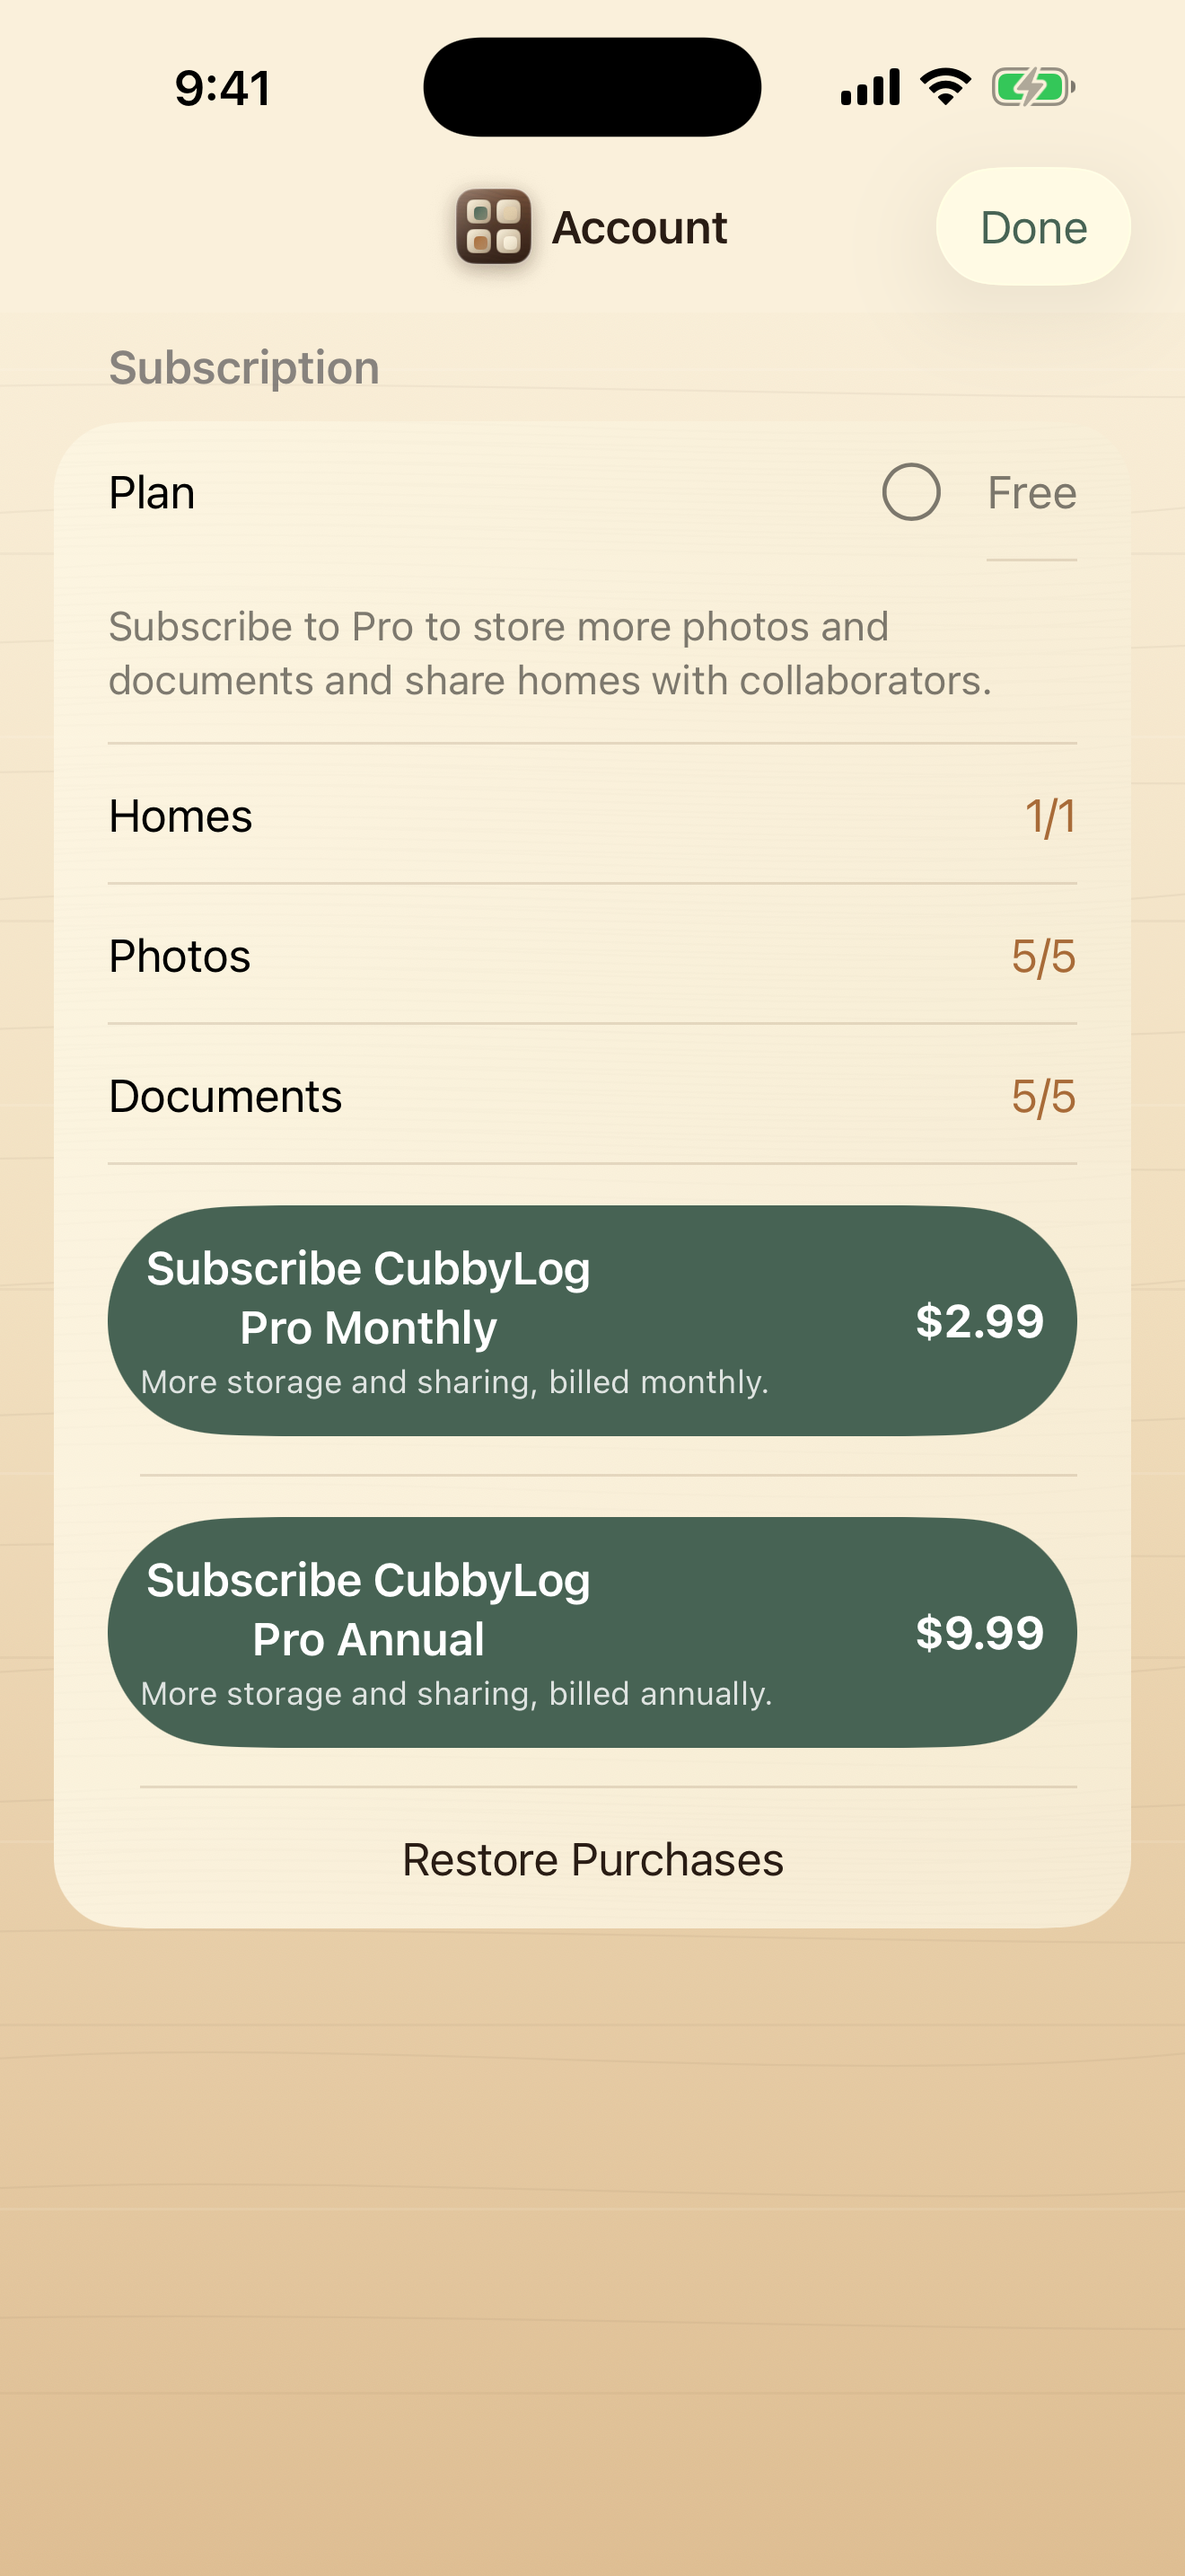
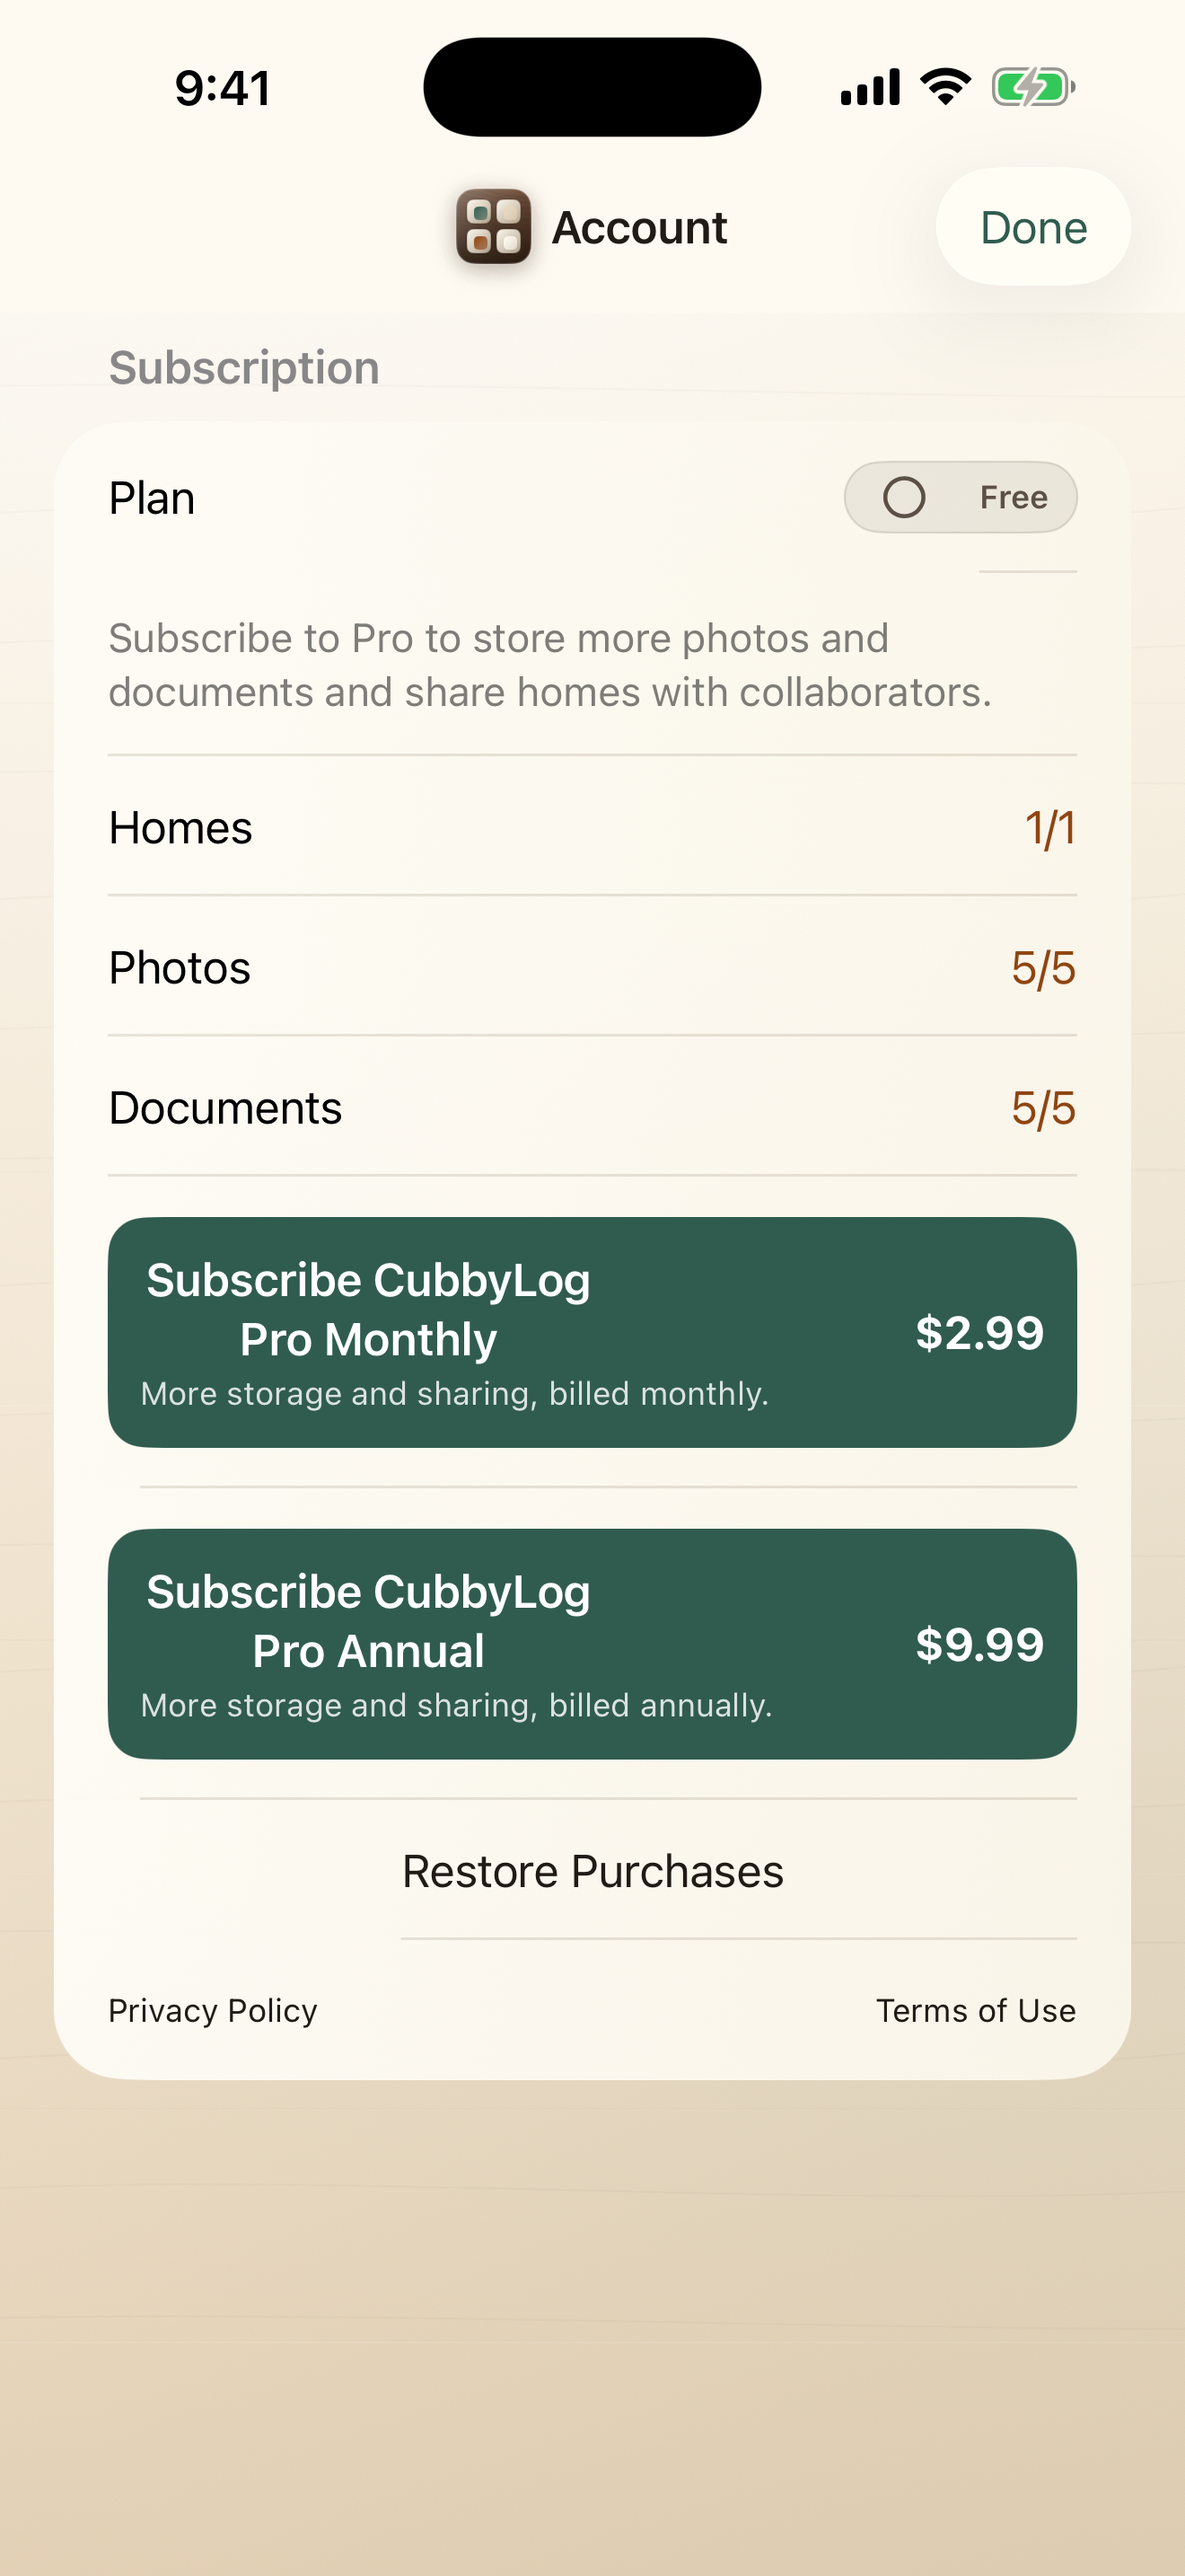
Add subscription legal links

diff --git a/ios/StuffTracker/Views/Auth/AccountView.swift b/ios/StuffTracker/Views/Auth/AccountView.swift
@@ -3,6 +3,11 @@ import AuthenticationServices
 import GoogleSignIn
 import StoreKit
 
+private enum SubscriptionLegalLinks {
+    static let privacyPolicy = URL(string: "https://cubbylog.com/privacy.html")!
+    static let termsOfUse = URL(string: "https://www.apple.com/legal/internet-services/itunes/dev/stdeula/")!
+}
+
 #if DEBUG
 struct SubscriptionReviewScreenshotView: View {
     private let plans = [
@@ -66,6 +71,8 @@ struct SubscriptionReviewScreenshotView: View {
                             Spacer()
                         }
                     }
+
+                    subscriptionLegalLinks
                 }
                 .cubbySheetRows()
             }
@@ -81,6 +88,15 @@ struct SubscriptionReviewScreenshotView: View {
                 }
             }
         }
+    }
+
+    private var subscriptionLegalLinks: some View {
+        HStack {
+            Link("Privacy Policy", destination: SubscriptionLegalLinks.privacyPolicy)
+            Spacer()
+            Link("Terms of Use", destination: SubscriptionLegalLinks.termsOfUse)
+        }
+        .font(.caption)
     }
 
     private func quotaRow(title: String, used: Int, limit: Int) -> some View {
@@ -440,8 +456,19 @@ struct AccountView: View {
                         .foregroundStyle(.secondary)
                 }
             }
+
+            subscriptionLegalLinks
         }
         .cubbySheetRows()
+    }
+
+    private var subscriptionLegalLinks: some View {
+        HStack {
+            Link("Privacy Policy", destination: SubscriptionLegalLinks.privacyPolicy)
+            Spacer()
+            Link("Terms of Use", destination: SubscriptionLegalLinks.termsOfUse)
+        }
+        .font(.caption)
     }
 
     private func subscriptionProductButton(_ product: Product) -> some View {

diff --git a/backend/test/workflows.test.ts b/backend/test/workflows.test.ts
@@ -65,6 +65,7 @@ test('App Store screenshots workflow uploads to App Store Connect by default', (
 test('App Store metadata workflow uploads editable metadata through fastlane', () => {
   const workflow = readRepoFile('.github/workflows/app-store-metadata.yml');
   const fastfile = readRepoFile('fastlane/Fastfile');
+  const description = readRepoFile('fastlane/metadata/en-US/description.txt');
 
   assert.match(workflow, /bundle exec fastlane ios upload_metadata/);
   assert.match(workflow, /APP_STORE_CONNECT_KEY_ID/);
@@ -78,6 +79,10 @@ test('App Store metadata workflow uploads editable metadata through fastlane', (
   assert.match(fastfile, /return unless options\[:app_review_attachment_file\]/);
   assert.match(fastfile, /skip_binary_upload: true/);
   assert.match(fastfile, /skip_screenshots: true/);
+  assert.match(
+    description,
+    /Terms of Use \(EULA\): https:\/\/www\.apple\.com\/legal\/internet-services\/itunes\/dev\/stdeula\//,
+  );
 });
 
 test('App Store subscription price workflow updates the yearly Pro product', () => {
@@ -126,6 +131,8 @@ test('App Store subscription review workflow completes and verifies both Pro pro
   assert.match(captureScript, /--subscription-review-screenshot/);
   assert.match(app, /SubscriptionReviewScreenshotView/);
   assert.ok(account.includes('Text("Subscribe \\(plan.name)")'));
+  assert.match(account, /Link\("Privacy Policy", destination: SubscriptionLegalLinks\.privacyPolicy\)/);
+  assert.match(account, /Link\("Terms of Use", destination: SubscriptionLegalLinks\.termsOfUse\)/);
   assert.equal(reviewScreenshot.subarray(1, 4).toString(), 'PNG');
   assert.equal(reviewScreenshot.readUInt32BE(16), 1320);
   assert.equal(reviewScreenshot.readUInt32BE(20), 2868);
